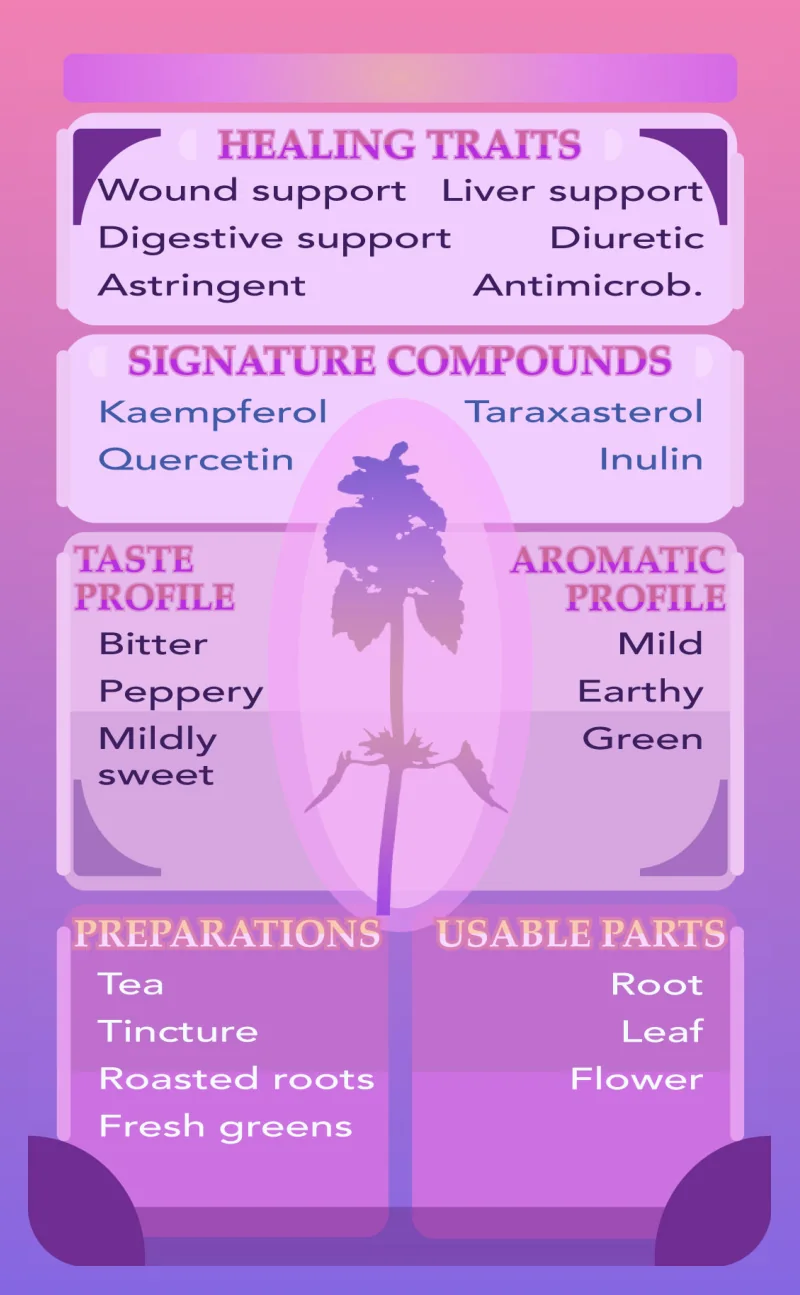
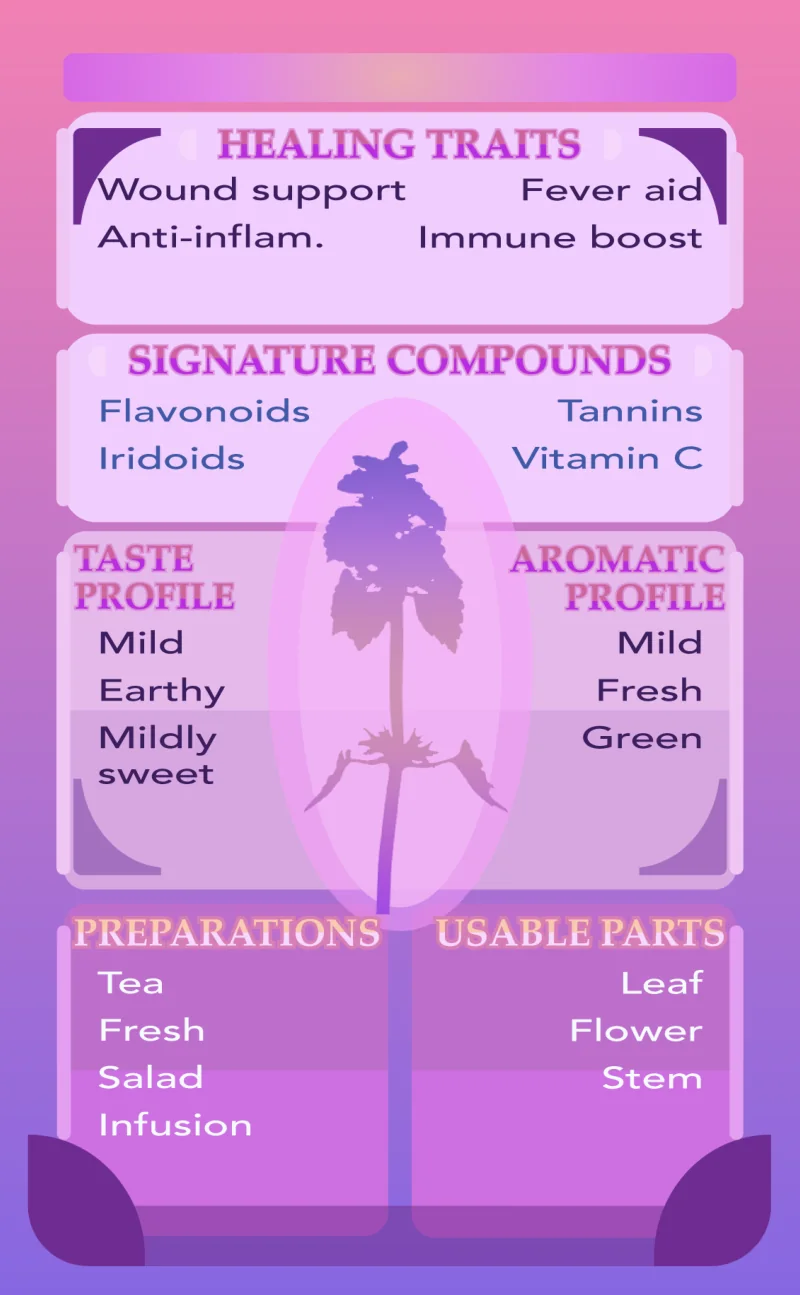
Take the August reprint of cards 11, 24 and 31
All three printed another card's back. 11 carried Dandelion's — Taraxasterol,
Inulin, "Roasted roots" and a root among its usable parts, none of which belong
to Lamium purpureum. 24 and 31 both carried Sumac's, so Catnip printed no
nepetalactone and Elderberry no anthocyanin profile of its own. The corrected
cards are here, and their KNOWN_CARD_ISSUES entries go in this same commit — an
entry may only be removed when the printed card is genuinely fixed, or the app
denies an error still in a buyer's hands.

A NEW --only FLAG, because a full rebuild was the wrong shape for this. It needs
all 45 print masters and fails rather than writing a partial deck, which is right
for a rebuild and useless when three corrected PDFs arrive and the other 42 are a
folder nobody wants to move. --only 11,24,31 rebuilds those and carries the rest
through from the existing herbs.json; the run is otherwise identical, including
the stat re-count against the artwork and the all-or-nothing failure. Verified:
42 cards byte-identical, only three back images changed on disk, and the three
failure modes (unknown card, missing PDF, non-numeric) each write nothing.

The card text is a manual transcription — the print files have their text
converted to outlines — so the backs were read off renders at 4x. Reading order
was confirmed against card 1, whose layout and existing transcription prove the
two-column blocks are row-major rather than column-major.
[…]

diff --git a/src/lib/deck.test.ts b/src/lib/deck.test.ts
@@ -122,14 +122,17 @@ describe('deck data', () => {
 
 describe('knownIssueFor', () => {
   /**
-   * The deck is printed, so these five are permanent. Transcription is faithful by rule,
-   * which means three cards show ANOTHER plant's profile in good faith — the site is the
-   * only place that can now say so, and a note nobody renders corrects nothing.
+   * Transcription is faithful by rule, so a printing error reaches the site intact and this
+   * note is the only place that can say so. What is left after the August reprint is two
+   * typos; the three cards that carried ANOTHER plant's profile — 11 was Dandelion's, 24 and
+   * 31 were both Sumac's — were corrected on the card itself and their entries went with the
+   * new transcription. An entry may only be removed when the printed card is genuinely
+   * fixed, never to tidy the list, or the app denies an error still in a buyer's hands.
    */
   it('reports the recorded printing error for an affected card', () => {
-    const elderberry = getHerb('sambucus-spp')!;
-    expect(elderberry.cardNumber).toBe(31);
-    expect(knownIssueFor(elderberry)).toMatch(/duplicates Sumac/i);
+    const willow = getHerb('salix-spp')!;
+    expect(willow.cardNumber).toBe(38);
+    expect(knownIssueFor(willow)).toMatch(/sallicin/i);
   });
 
   it('covers every card the build script recorded, and only those', () => {
@@ -142,7 +145,54 @@ describe('knownIssueFor', () => {
   });
 
   it('returns nothing for a card with no recorded error', () => {
-    // Dandelion is card #01 and is the card two of the errors are errors ABOUT.
+    // Dandelion is card #01, and card 11 used to print its back verbatim.
     expect(knownIssueFor(getHerb('taraxacum-officinale')!)).toBeUndefined();
+  });
+
+  /**
+   * THE BUG THE REPRINT FIXED, PINNED SO A REBUILD CANNOT BRING IT BACK.
+   *
+   * Three cards shipped carrying another card's back, and nothing in the data could notice:
+   * every field was individually well-formed, and the duplication was only visible by
+   * reading two cards side by side. A regeneration from a stale PDF, or a copy-paste while
+   * editing the BACKS table, would reintroduce it exactly as silently.
+   *
+   * WHY FOUR OF SIX AND NOT AN EXACT MATCH. Only card 31 was a whole-back copy; 11 and 24
+   * each differed in one field, so an equality check would have caught one of the three and
+   * called the deck clean. The threshold is measured rather than guessed — against the
+   * pre-reprint data all four bad pairings share 4+ fields (20/31 share six, 20/24, 24/31
+   * and 1/11 share five), and against the corrected deck NO pair shares four. There is
+   * therefore no legitimate pair anywhere near this line to false-positive on.
+   *
+   * A compounds-only check was the other candidate and is rejected: Ground Ivy and Self-Heal
+   * genuinely print the same four compounds, so that guard cries wolf on a real card.
+   */
+  it('gives every card its own back, which is what the reprint corrected', () => {
+    const FIELDS = [
+      'healingTraits',
+      'compounds',
+      'taste',
+      'aromatic',
+      'preparations',
+      'usableParts',
+    ] as const;
+
+    const suspicious: string[] = [];
+    for (let i = 0; i < HERBS.length; i += 1) {
+      for (let j = i + 1; j < HERBS.length; j += 1) {
+        const a = HERBS[i]!;
+        const b = HERBS[j]!;
+        const shared = FIELDS.filter(
+          (field) => JSON.stringify(a.back?.[field]) === JSON.stringify(b.back?.[field]),
+        );
+        if (shared.length >= 4) {
+          suspicious.push(
+            `#${a.cardNumber} ${a.commonName} and #${b.cardNumber} ${b.commonName} ` +
+              `share ${shared.length}/6 back fields (${shared.join(', ')})`,
+          );
+        }
+      }
+    }
+    expect(suspicious).toEqual([]);
   });
 });

diff --git a/src/lib/compounds.ts b/src/lib/compounds.ts
@@ -105,6 +105,12 @@ const TABLE: Record<string, Omit<CompoundEntry, 'id'>> = {
   // cannot tell which these are.
   rutin: molecule(undefined, 'Quercetin bound to the disaccharide rutinose'),
   taraxasterol: molecule(undefined, 'A pentacyclic triterpene'),
+  // Arrived with the August reprint of card 24, which until then printed Sumac's back.
+  // `citronellal` above is the aldehyde and already has a drawing; these three are
+  // different molecules and have none yet, so they take the honest caption instead.
+  nepetalactone: molecule(undefined, 'An iridoid lactone'),
+  citronellol: molecule(undefined, 'A monoterpene alcohol'),
+  geraniol: molecule(undefined, 'A monoterpene alcohol'),
   resveratrol: molecule('resveratrol', 'A stilbenoid'),
   lawsone: molecule('lawsone', 'A naphthoquinone'),
   emodin: molecule('emodin', 'An anthraquinone'),

diff --git a/scripts/build_deck.py b/scripts/build_deck.py
@@ -157,7 +157,7 @@ BACKS = {
     8: (["Anti-inflam.", "Joint support", "Allergy aid", "Circulatory"], ["Chlorophyll", "Histamine", "Iron", "Silica"], ["Green", "Earthy", "Mineral"], ["Green", "Fresh", "Mild"], ["Tea", "Cooked", "Infusion", "Tincture"], ["Leaf", "Stem", "Root", "Shoot"]),
     9: (["Vitamin-rich", "Appetite support", "Digestive support", "Diuretic", "Cooling"], ["Flavonoids", "Oxalic acid", "Vitamin C", "Potassium"], ["Sour", "Citrus", "Bright"], ["Light", "Fresh", "Green"], ["Fresh", "Tea", "Salad", "Infusion"], ["Leaf", "Flower", "Stem", "Root"]),
     10: (["Hormone support", "Circulatory", "Skin care", "Detoxifying"], ["Isoflavones", "Flavonoids", "Coumarins", "Genistein"], ["Mild", "Sweet", "Grassy"], ["Light", "Floral"], ["Tea", "Tincture", "Infusion", "Salve"], ["Leaf", "Flower", "Stem", "Root"]),
-    11: (["Wound support", "Liver support", "Digestive support", "Diuretic", "Astringent", "Antimicrob."], ["Kaempferol", "Taraxasterol", "Quercetin", "Inulin"], ["Bitter", "Peppery", "Mildly sweet"], ["Mild", "Earthy", "Green"], ["Tea", "Tincture", "Roasted roots", "Fresh greens"], ["Root", "Leaf", "Flower"]),
+    11: (["Wound support", "Fever aid", "Anti-inflam.", "Immune boost"], ["Flavonoids", "Tannins", "Iridoids", "Vitamin C"], ["Mild", "Earthy", "Mildly sweet"], ["Mild", "Fresh", "Green"], ["Tea", "Fresh", "Salad", "Infusion"], ["Leaf", "Flower", "Stem"]),
     12: (["Anti-inflam.", "Skin-soothing", "Cooling", "Respiratory support", "Lymphatic support"], ["Rutin", "Anthocyanins", "Mucilage", "Vitamin C"], ["Green", "Sweet", "Minty"], ["Light", "Floral", "Fresh"], ["Tea", "Syrup", "Salve", "Infusion"], ["Leaf", "Flower", "Stem"]),
     13: (["Cooling", "Nutrient-rich", "Skin-soothing", "Mild laxative", "Itch relief"], ["Saponins", "Vitamin C", "Flavonoids", "Iron"], ["Mild", "Fresh", "Slightly sweet"], ["Light", "Green"], ["Salve", "Poultice", "Tea", "Fresh"], ["Shoot", "Leaf", "Flower", "Seed"]),
     14: (["Drawing", "Antimicrob.", "Wound support", "Skin-soothing"], ["Aucubin", "Flavonoids", "Mucilage", "Allantoin"], ["Mild", "Slightly bitter"], ["Green", "Earthy"], ["Poultice", "Salve", "Tea", "Fresh"], ["Leaf", "Seed", "Stem", "Root"]),
@@ -170,14 +170,14 @@ BACKS = {
     21: (["Digestive support", "Laxative", "Liver support", "Prebiotic"], ["Lactucopicrin", "Sesquiterpene lactones", "Inulin", "Lactucin"], ["Bitter", "Nutty", "Roasted"], ["Toasty", "Coffee", "Earthy"], ["Tea", "Decoction", "Tincture", "Roasted"], ["Root", "Leaf", "Flower"]),
     22: (["Detoxifying", "Liver support", "Skin care", "Anti-inflam.", "Digestive support"], ["Polyphenols", "Lignans", "Arctiin", "Inulin"], ["Bitter", "Earthy", "Slightly sweet"], ["Mild", "Earthy"], ["Decoction", "Tea", "Tincture", "Cooked root"], ["Root", "Leaf", "Seed", "Stem"]),
     23: (["Digestive support", "Nausea aid", "Cooling", "Headache support"], ["Menthol", "Menthone", "Rosmarinic acid", "Limonene"], ["Cool", "Minty", "Sharp"], ["Strong", "Cooling", "Fresh"], ["Tea", "Infusion", "Oil", "Fresh"], ["Leaf", "Stem", "Flower"]),
-    24: (["Antimicrobial", "Anti-inflam.", "Glucose regulation", "Astringent"], ["Phenolic acid", "Anthocyanins", "Gallic acid", "Tannins"], ["Sour", "Lemony", "Tangy"], ["Bright", "Fruity", "Zesty"], ["Tea", "Infusion", "Spice", "Cold soak"], ["Leaf", "Flower", "Stem"]),
+    24: (["Fever aid", "Nervous system", "Digestive support", "Calming"], ["Nepetalactone", "Citronellol", "Flavonoids", "Geraniol"], ["Minty", "Bitter", "Warm"], ["Soft", "Musky", "Minty"], ["Tea", "Infusion", "Tincture"], ["Leaf", "Flower", "Stem"]),
     25: (["Circulatory", "Menstrual support", "Wound support", "Astringent"], ["Fumaric acid", "Choline", "Flavonoids", "Tyramine"], ["Mild", "Peppery", "Green"], ["Light", "Herbal", "Fresh"], ["Tincture", "Tea", "Infusion", "Fresh"], ["Leaf", "Stem", "Flower", "Root"]),
     26: (["Wound support", "Antimicrobial", "Anti-inflam.", "Immune boost"], ["Rosmarinic acid", "Ursolic acid", "Tannins", "Flavonoids"], ["Mild", "Slightly bitter"], ["Light", "Herbal"], ["Tea", "Infusion", "Salve", "Tincture"], ["Leaf", "Flower", "Stem"]),
     27: (["Anti-inflam.", "Expectorant", "Respiratory support", "Soothing"], ["Mucilage", "Verbascoside", "Saponins", "Iridoids"], ["Mild", "Slightly bitter"], ["Light", "Soft", "Herbal"], ["Tea", "Infusion", "Oil", "Tincture"], ["Leaf", "Flower", "Root"]),
     28: (["Diuretic", "Keratin support", "Bone support", "Urinary support"], ["Silica", "Flavonoids", "Saponins", "Alkaloids"], ["Mild", "Earthy", "Slightly bitter"], ["Light", "Green", "Mineral"], ["Tea", "Decoction", "Infusion"], ["Shoot"]),
     29: (["Antimicrobial", "Immune boost", "Digestive support", "Circulatory"], ["Flavonoids", "Sulfur compounds", "Phenolics", "Allicin"], ["Pungent", "Garlic", "Sharp"], ["Strong", "Sulfurous", "Pungent"], ["Fresh", "Cooked", "Tincture"], ["Bulb", "Leaf", "Flower", "Shoot"]),
     30: (["Digestive support", "Oral health", "Astringent", "Skin care"], ["Vitamin C", "Flavonoids", "Ellagic acid", "Tannins"], ["Sweet", "Mild", "Slightly tart"], ["Light", "Fruity", "Fresh"], ["Tea", "Infusion", "Fresh"], ["Fruit", "Leaf", "Flower"]),
-    31: (["Antimicrobial", "Anti-inflam.", "Glucose regulation", "Astringent"], ["Phenolic acid", "Anthocyanins", "Gallic acid", "Tannins"], ["Sour", "Lemony", "Tangy"], ["Bright", "Fruity", "Zesty"], ["Tea", "Infusion", "Spice", "Cold soak"], ["Berry", "Bark"]),
+    31: (["Antiviral", "Immune boost", "Respiratory support", "Fever aid"], ["Anthocyanins", "Chlorogenic acid", "Rutin", "Quercetin"], ["Sweet", "Tart", "Juicy"], ["Floral", "Sweet", "Rich"], ["Tea", "Infusion", "Spice", "Cold soak"], ["Berry", "Flower", "Leaf", "Shoot"]),
     32: (["Wound aid", "Menopause aid", "Nervous system aid", "Mood aid"], ["Hypericin", "Hyperforin", "Flavonoids", "Quercetin"], ["Bitter", "Slightly astringent"], ["Mild", "Herbal", "Dry"], ["Tea", "Tincture", "Oil", "Infusion"], ["Leaf", "Flower"]),
     33: (["Circulatory", "Fever aid", "Wound support", "Antimicrob.", "Anti-inflam."], ["Flavonoids", "Volatile oils", "Achilleine", "Azulene"], ["Bitter", "Bold", "Licorice"], ["Sharp", "Herbal", "Bitter"], ["Tea", "Tincture", "Salve", "Poultice"], ["Leaf", "Flower", "Stem"]),
     34: (["Skin care", "Itch relief", "Anti-fungal", "Wound support"], ["Flavonoids", "Phenolic acid", "Lawsone", "Saponins"], ["Mild", "Green"], ["Light", "Fresh", "Cool"], ["Cooked", "Poultice", "Salve", "Infusion"], ["Leaf", "Stem", "Flower", "Seed"]),
@@ -201,11 +201,14 @@ CARD_WARNINGS = {33: "Beware: this plant has a poisonous lookalike."}
 # Problems with the printed cards, recorded so they are not mistaken for transcription
 # slips and can be fixed in a future print run. The data above matches the cards as
 # printed; nothing here is silently corrected.
+# Cards 11, 24 and 31 were listed here until the August reprint. All three carried another
+# card's back — 11 was Dandelion's, 24 and 31 were both Sumac's — and all three have now
+# been corrected on the card itself, so the entries are gone in the same edit that
+# retranscribed them. An entry is removed only when the printed card is genuinely fixed;
+# removing one to make the app look tidier would have it deny an error still in a buyer's
+# hands.
 KNOWN_CARD_ISSUES = {
     2: "Usable parts list both 'Stock' and 'Stalk'; one is likely a typo.",
-    11: "Back duplicates Dandelion (card 1): Taraxasterol, Inulin and 'Roasted roots' belong to Taraxacum, not Lamium purpureum.",
-    24: "Back duplicates Sumac (card 20); Catnip's own profile (nepetalactone, calming) is absent.",
-    31: "Back duplicates Sumac (card 20); Elderberry's own profile is absent.",
     38: "'Sallicin' is likely a typo for 'Salicin'.",
 }
 
@@ -311,11 +314,49 @@ def main() -> int:
         help="Directory of two-page per-card PDFs (page 1 front, page 2 back).",
     )
     ap.add_argument("--skip-art", action="store_true", help="Rebuild JSON only.")
+    ap.add_argument(
+        "--only",
+        help=(
+            "Comma-separated card numbers to PATCH into the existing herbs.json, e.g. "
+            "'11,24,31'. Every other card is carried through from the file untouched. "
+            "Use this when a few cards are reprinted and the full 45-PDF set is not to hand."
+        ),
+    )
     args = ap.parse_args()
 
     if not args.source.is_dir():
         print(f"Not a directory: {args.source}", file=sys.stderr)
         return 1
+
+    # --- Patch mode ----------------------------------------------------------------------
+    # A full run needs all 45 print masters, and fails rather than writing a partial deck.
+    # That is right for a rebuild and useless for a reprint of three cards, which is the
+    # real case: the corrected PDFs arrive one at a time and the other 42 masters are a
+    # multi-gigabyte folder nobody wants to move around to fix a typo.
+    #
+    # So patch mode reads the herbs the run did NOT touch straight out of the existing
+    # herbs.json and re-emits them unchanged. Everything else about the run is identical —
+    # the same stat re-count against the artwork, the same table validation, the same
+    # all-or-nothing failure — it is only the SET of cards being rebuilt that narrows.
+    only: set[int] | None = None
+    if args.only:
+        try:
+            only = {int(part) for part in args.only.split(",") if part.strip()}
+        except ValueError:
+            print(f"--only takes card numbers, got {args.only!r}", file=sys.stderr)
+            return 1
+        known = {num for (num, *_rest) in DECK}
+        unknown = sorted(only - known)
+        if unknown:
+            print(f"--only names cards that are not in the deck: {unknown}", file=sys.stderr)
+            return 1
+        if not OUT_JSON.exists():
+            print(
+                f"--only patches an existing deck, and {OUT_JSON.relative_to(REPO)} does not "
+                "exist yet. Build the whole deck once from the full set of PDFs first.",
+                file=sys.stderr,
+            )
+            return 1
 
     sources = find_sources(args.source)
     OUT_ART.mkdir(parents=True, exist_ok=True)
@@ -327,6 +368,9 @@ def main() -> int:
     herbs, seen_ids, problems = [], set(), []
 
     for (num, common, sci, rarity, season, uses, w, s, t) in DECK:
+        if only is not None and num not in only:
+            continue
+
         pdf_path = sources.get(num)
         if pdf_path is None:
             problems.append(f"#{num} {common}: no source PDF found")
@@ -415,6 +459,22 @@ def main() -> int:
         for p in problems:
             print(f"  - {p}", file=sys.stderr)
         return 1
+
+    if only is not None:
+        # Carry every untouched card through from the file, then sort back into card order.
+        # The rebuilt entries win, and the deck-level metadata below is regenerated from the
+        # tables either way — so removing a card's KNOWN_CARD_ISSUES entry in the same edit
+        # that fixes its transcription actually reaches herbs.json, rather than leaving the
+        # app reporting an error that is no longer in the data.
+        existing = json.loads(OUT_JSON.read_text(encoding="utf-8"))
+        rebuilt = {h["cardNumber"] for h in herbs}
+        carried = [h for h in existing.get("herbs", []) if h["cardNumber"] not in rebuilt]
+        missing = sorted(only - rebuilt)
+        if missing:
+            print(f"--only asked for {missing} but they were not rebuilt", file=sys.stderr)
+            return 1
+        print(f"Patching {sorted(rebuilt)}; carrying {len(carried)} cards through unchanged.")
+        herbs = sorted(herbs + carried, key=lambda h: h["cardNumber"])
 
     payload = {
         "$comment": (

diff --git a/CLAUDE.md b/CLAUDE.md
@@ -19,7 +19,8 @@ Payment Link behind `/shop`, see "V0.4 commerce" below), and the **player profil
 npm run dev        # dev server
 npm run verify     # lint + typecheck + test + build — run before pushing
 npm test           # vitest
-npm run build:deck -- --source /path/to/card-pdfs   # regenerate deck data + art
+npm run build:deck -- --source /path/to/card-pdfs   # regenerate deck data + art (needs all 45)
+python3 scripts/build_deck.py --source deck-source --only 11,24,31   # patch a few reprinted cards
 npm run build:structures                           # regenerate the skeletal formulas
 python3 scripts/build_sprites.py                   # regenerate the animated portraits
 python3 scripts/build_sprites.py --preview <herb-id> [--frame N]   # print a frame as text
@@ -102,6 +103,22 @@ These exist because AGENTS.md requires them. Breaking one is a bug, not a style 
 - **No invented botany.** Every herb field must come from the physical card — fronts and
   backs are both transcribed in `scripts/build_deck.py`. Where a card contains an error,
   transcribe it faithfully and record it in `KNOWN_CARD_ISSUES`; never silently correct it.
+- **A reprint of a few cards is patched with `--only`, not rebuilt.** A full run needs all 45
+  print masters and fails rather than writing a partial deck, which is right for a rebuild
+  and useless when three corrected PDFs arrive and the other 42 are a folder nobody wants to
+  move. `--only 11,24,31` rebuilds exactly those, carries every other card through from the
+  existing `herbs.json` untouched, and keeps the rest of the run identical — same stat
+  re-count against the artwork, same table validation, same all-or-nothing failure. It
+  regenerates the deck-level metadata from the tables, so a `KNOWN_CARD_ISSUES` entry
+  removed alongside a corrected transcription actually reaches the app.
+- **A `KNOWN_CARD_ISSUES` entry is removed only when the printed card is genuinely fixed**,
+  in the same edit as the new transcription. Cards 11, 24 and 31 each carried another card's
+  back (11 was Dandelion's; 24 and 31 were both Sumac's) until the August reprint corrected
+  them. Removing an entry to tidy the list would have the app deny an error still in a
+  buyer's hands. `deck.test.ts` also pins the shape of that bug directly: no two cards may
+  share four or more of the six back fields. Four is measured, not guessed — all four bad
+  pairings cleared it before the reprint and no pair reaches it after, whereas an exact-match
+  check would have caught only card 31 and called the deck clean.
 - **Icon labels and disclaimer text are the deck's own**, taken from the Icon Cheat Sheet
   (card 46) and Disclaimer (card 47). Change them in the build script, not in components.
 - **"Healing Traits" must always render with its non-claim framing.** It is the deck's
